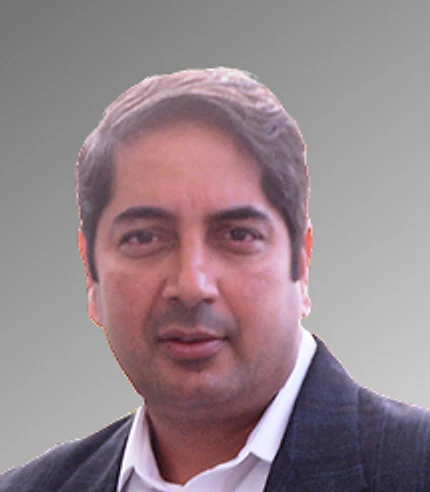
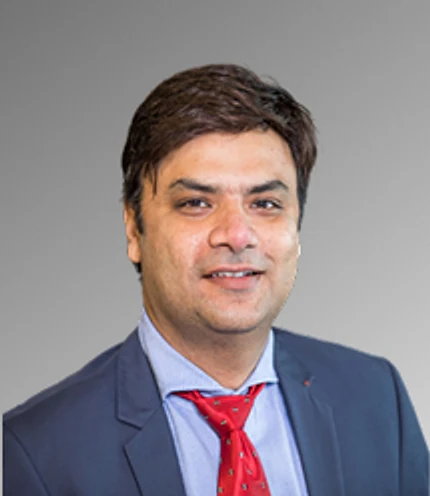
Swap two leader photos, rename to D. Balasubramaniam, fit long names
- Dheeraj Rathi and the Finance leader now have each other's photos, and the photo files were swapped so file names still match the people.
- Bala Subramanian is now D. Balasubramaniam, with his photo file renamed to match.
- Leaders' names and roles are sized from the photo width, so the longest names stay on one line at every screen size.

diff --git a/components/home/OurBoardSection.tsx b/components/home/OurBoardSection.tsx
@@ -18,7 +18,7 @@ interface Stage {
   photoClass: string;
   /** The row scrolls sideways below this breakpoint and is centred above it. */
   rowClass: string;
-  /** Smaller type, for the group with the most cards, so names and roles stay on one line. */
+  /** Type sized to the photo width, for the group with the longest names, so they stay on one line. */
   dense?: boolean;
   people: Person[];
 }
@@ -54,7 +54,7 @@ const STAGES: Stage[] = [
     people: [
       { name: "Dheeraj Rathi", role: "Technical", photo: "/images/board/dheeraj-rathi.webp" },
       { name: "Deepa Rathi", role: "Compliance & Governance", photo: "/images/board/deepa-rathi.webp" },
-      { name: "Bala Subramanian", role: "Finance", photo: "/images/board/bala-subramanian.webp" },
+      { name: "D. Balasubramaniam", role: "Finance", photo: "/images/board/d-balasubramaniam.webp" },
       { name: "Sanjeev Bindal", role: "Legal", photo: "/images/board/sanjeev-bindal.webp" },
       { name: "Pankaj Bhargava", role: "Strategic & Performance", photo: "/images/board/pankaj-bhargava.webp" },
     ],
@@ -146,7 +146,7 @@ function PersonCard({ person, dense = false }: { person: Person; dense?: boolean
       <h3
         className={clsx(
           "mt-4 font-heading font-semibold tracking-tight text-ecovis-black md:mt-5",
-          dense ? "text-[17px] md:text-[20px] xl:text-[clamp(15px,1.4vw,22px)]" : "text-[17px] md:text-[22px]",
+          dense ? "text-[clamp(15px,calc(var(--pw)/10.2),22px)]" : "text-[17px] md:text-[22px]",
         )}
       >
         {person.name}
@@ -154,7 +154,7 @@ function PersonCard({ person, dense = false }: { person: Person; dense?: boolean
       <p
         className={clsx(
           "mt-1 font-sans text-gray-500",
-          dense ? "text-[13px] xl:text-[clamp(11.5px,0.95vw,14px)]" : "text-sm md:text-[15px]",
+          dense ? "text-[clamp(11px,calc(var(--pw)/13.4),14px)]" : "text-sm md:text-[15px]",
         )}
       >
         {person.role}
